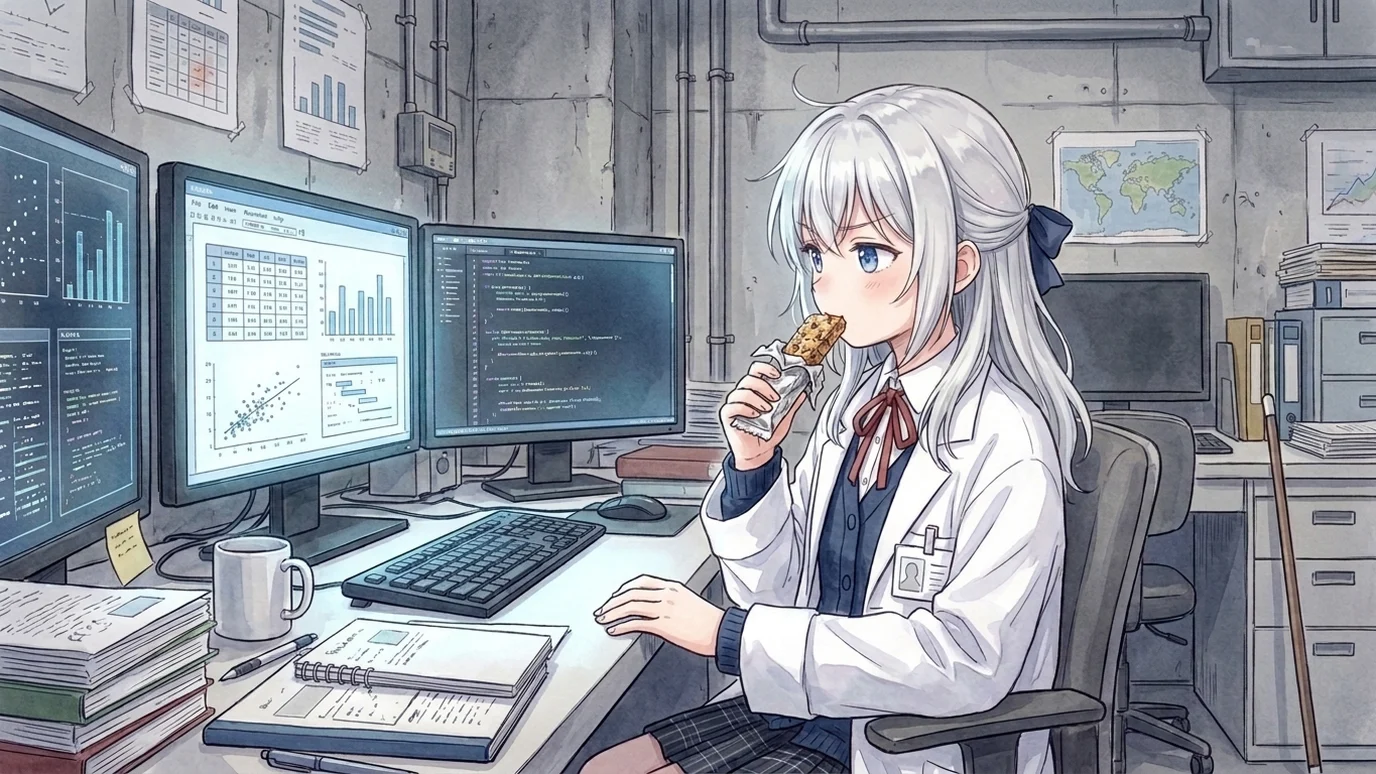
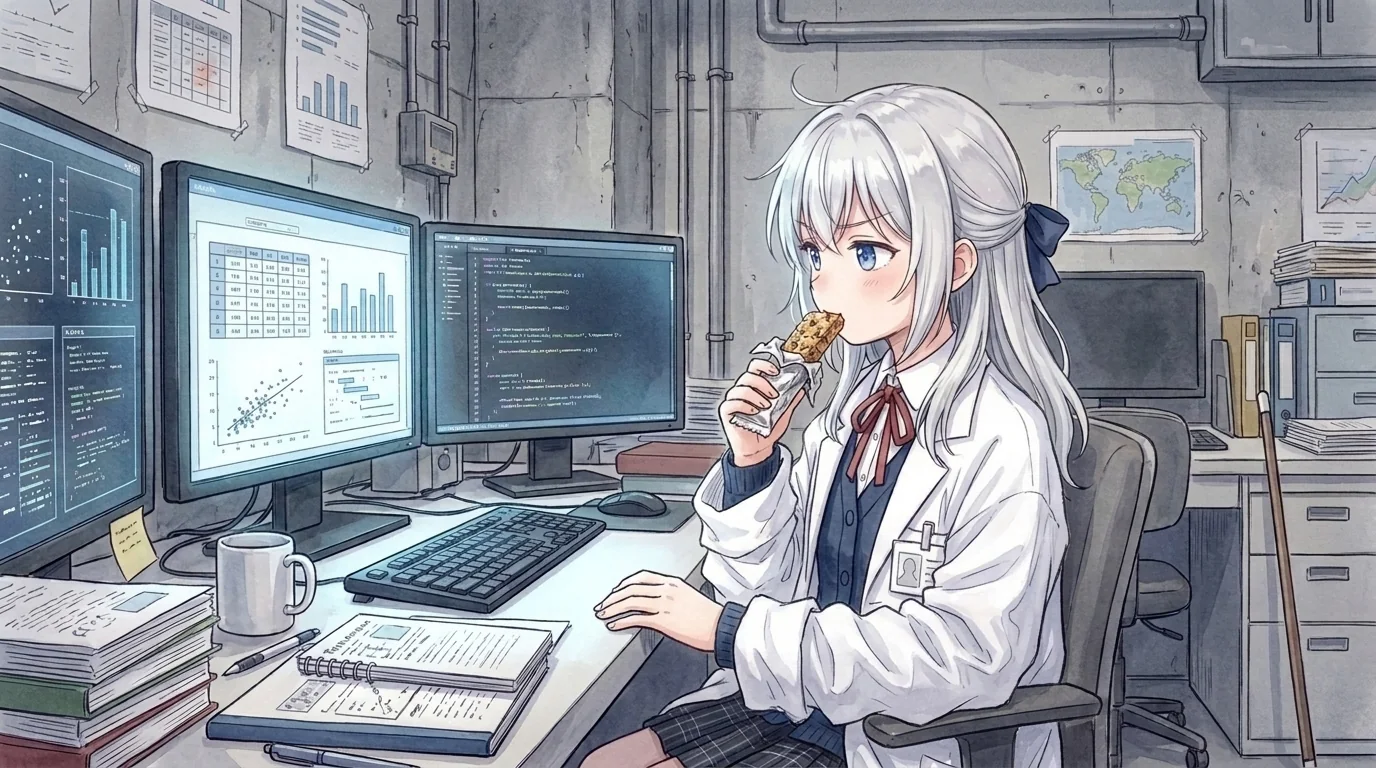
「片手で昼食」の差し替えと、玄関の歩き絵を押すと跳ねるように
chiaki-deskbar を差し替え。地図のポスターに読める文字（SIAMETIGAL）が
あったので、周囲の紙の地色で潰した。モニターのコードは判読できないので残す。
寸法が 774 から 768 に変わったぶん gallery.js の h も合わせた。

玄関の歩き絵は、押すと二度跳ねてから研究員の紹介へ進む。一跳び目28px、
二跳び目15px、跳ぶ前と着地で少しつぶれる。跳ね終わるまで移動を待たせるので、
修飾キーつきのクリック・キーボードのEnter・動きを減らす設定のときは素通りさせ、
animationend が来ない場合の保険に900msのタイマーを置いた。

Claude-Session: https://claude.ai/code/session_019qKHCPotWy19n7iU5duwKj

diff --git a/src/data/gallery.js b/src/data/gallery.js
@@ -21,7 +21,7 @@ export const GALLERY = [
   { who: 'hitoha', file: 'hitoha-private.webp', w: 1376, h: 768, date: '2026-10-22', title: '休日の朝', caption: '眼鏡を外して、マグを両手で。読みかけの帳面は枕元に。' },
   { who: 'chiaki', file: 'chiaki-nap.webp', w: 1376, h: 774, date: '2026-10-22', title: '寝落ち', caption: '研究室のソファで。計算を回したまま、靴だけ脱いで。' },
   { who: 'hitoha', file: 'hitoha-nightnoodle.webp', w: 1376, h: 774, date: '2026-10-22', title: '夜食', caption: '寮の台所で。湯を注いで三分、その間に帳面を一ページ。' },
-  { who: 'chiaki', file: 'chiaki-deskbar.webp', w: 1376, h: 774, date: '2026-10-22', title: '片手で昼食', caption: '三つの画面を見ながら、シリアルバーを片手で。昼休みを取る時間が惜しい日。' },
+  { who: 'chiaki', file: 'chiaki-deskbar.webp', w: 1376, h: 768, date: '2026-10-22', title: '片手で昼食', caption: '三つの画面を見ながら、シリアルバーを片手で。昼休みを取る時間が惜しい日。' },
   { who: 'chiaki', file: 'duo-cookie.webp', pair: 'cookie', w: 1376, h: 768, date: '2026-10-25', title: 'ルーレットクッキー', caption: '宴会の余興用。激辛が1枚だけ入っているはずだった。', talk: [['hitoha', '宴会で使うルーレットクッキーです。'], ['hitoha', '激辛クッキーが1枚入ってます。'], ['chiaki', 'それはわたしが美味しくいただいた。'], ['hitoha', '先生、ゲームになりません。']] },
   { who: 'hitoha', file: 'duo-cookie-b.webp', pair: 'cookie', w: 1376, h: 774, date: '2026-10-25', title: '一枚だけ', caption: 'ルーレットクッキーの激辛は二十枚に一枚。先生は一枚目で引いた。', talk: [['hitoha', '激辛は二十枚に一枚ですよ。一枚目で引きますか、ふつう。'], ['chiaki', '確率二十分の一は、起きないという意味ではない。'], ['hitoha', '……先生、香りで探ってません？'], ['chiaki', 'バレたか。つまり確率一分の一だ。']] },
 ];
